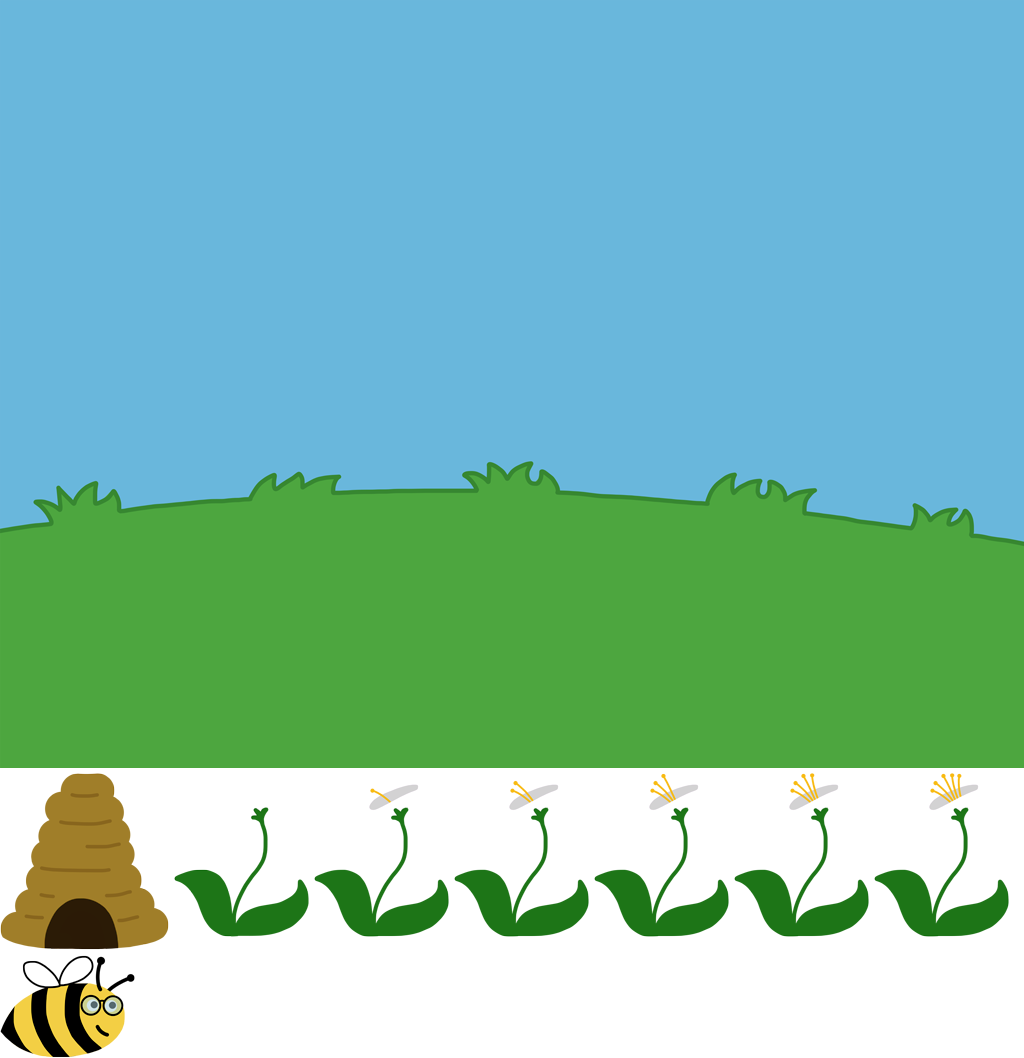
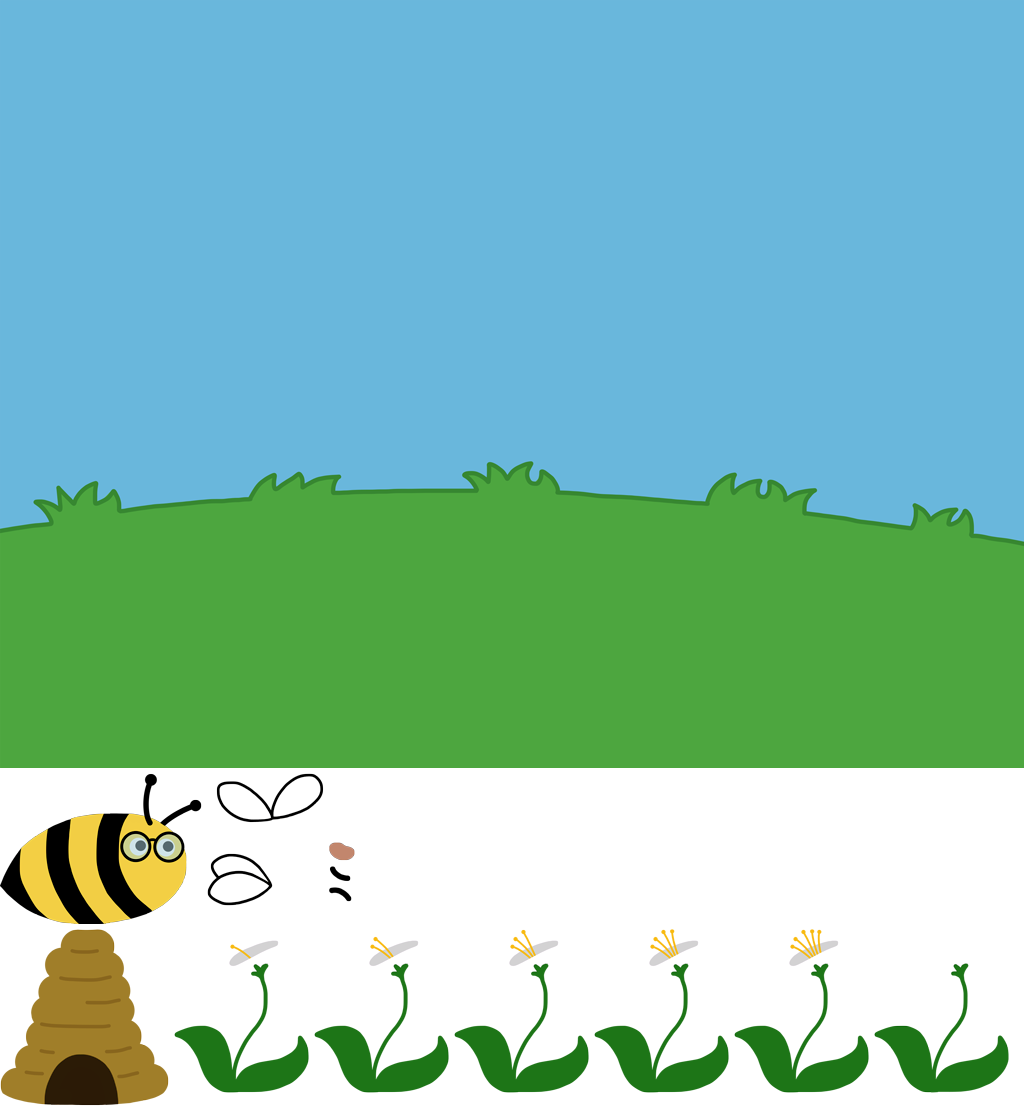
Bee: Graphics update and animations

Changed region(s): [[0.0, 0.6862, 1.0, 1.0], [0.0, 0.4055, 1.0, 0.5302], [0.5312, 0.7798, 0.5625, 0.811]]

diff --git a/src/js/states/subgames/numberpanelsubgames/BeeFlightGame.js b/src/js/states/subgames/numberpanelsubgames/BeeFlightGame.js
@@ -144,8 +144,8 @@ BeeFlightGame.prototype.newFlower = function () {
 	return t;
 };
 
-BeeFlightGame.prototype.startStop = function () {
-	// Do nothing
+BeeFlightGame.prototype.startStop = function (t) {
+	t.addSound('beePlaceholder', this.bee);
 };
 
 BeeFlightGame.prototype.startBelow = function (t) {
@@ -290,6 +290,28 @@ function BeeFlightBee (x, y) {
 	this.x = x || 0;
 	this.y = y || 0;
 
-	this.body = game.add.sprite(0, 0, 'bee', 'humfrid', this);
+	this.body = this.create(0, 0, 'bee', 'body');
 	this.body.anchor.set(0.5);
+	this.mouth = this.create(50, 35, 'bee', 'mouth_happy');
+	this.mouth.anchor.set(0.5);
+	this.wings = this.create(-25, -43, 'bee', 'wings0');
+	this.wings.anchor.set(0.5);
+
+	this.talk = TweenMax.to(this.mouth, 0.2, {
+		frame: this.mouth.frame+1, roundProps: 'frame', ease: Power0.easeInOut, repeat: -1, yoyo: true, paused: true
+	});
+
+	this._flap = TweenMax.to(this.wings, 0.1, {
+		frame: this.wings.frame+1, roundProps: 'frame', ease: Power0.easeInOut, repeat: -1, yoyo: true, paused: true
+	});
+
+	this.flap(true);
 }
+
+BeeFlightBee.prototype.flap = function (on) {
+	if (on && this._flap.paused()) {
+		this._flap.restart(0);
+	} else {
+		this._flap.pause(0);
+	}
+};
